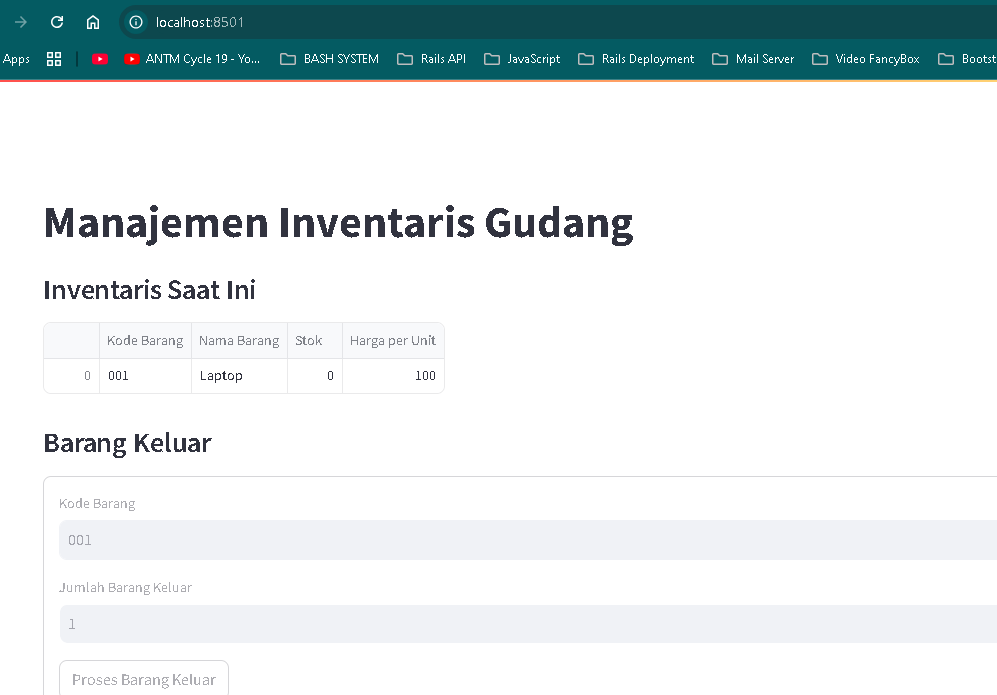
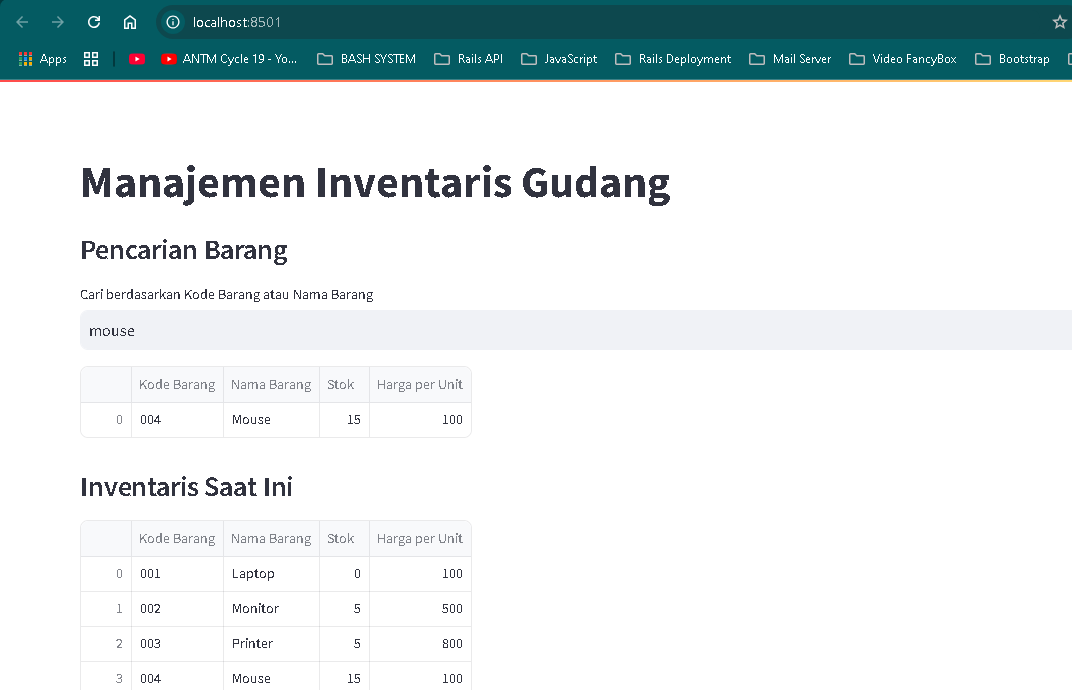
Tambah fitur search

diff --git a/app.py b/app.py
@@ -1,6 +1,7 @@
 import streamlit as st
 import pandas as pd
 from db_manager import add_item, get_all_items, decrease_item_stock, create_table
+from search import search_item
 
 # Setup halaman
 st.set_page_config(page_title="Aplikasi Manajemen Inventaris", layout="wide")
@@ -15,6 +16,22 @@ def load_data():
 
 # Halaman Utama
 st.title("Manajemen Inventaris Gudang")
+
+# Pencarian Barang
+st.subheader("Pencarian Barang")
+search_keyword = st.text_input("Cari berdasarkan Kode Barang atau Nama Barang")
+if search_keyword:
+    search_results = search_item(search_keyword)
+    if search_results:
+        df = pd.DataFrame(search_results, columns=["Kode Barang", "Nama Barang", "Stok", "Harga per Unit"])
+        st.dataframe(df)
+    else:
+        st.warning("Barang tidak ditemukan.")
+else:
+    # Tampilkan semua barang jika tidak ada pencarian
+    st.subheader("Inventaris Saat Ini")
+    df = load_data()
+    st.dataframe(df)
 
 # Tampilkan data inventaris
 st.subheader("Inventaris Saat Ini")

diff --git a/search.py b/search.py
@@ -1,0 +1,13 @@
+# search.py
+
+import sqlite3
+
+def search_item(keyword):
+    conn = sqlite3.connect('inventory.db')
+    cursor = conn.cursor()
+    cursor.execute('''SELECT kode_barang, nama_barang, stok, harga FROM inventaris
+                      WHERE kode_barang LIKE ? OR nama_barang LIKE ?''', 
+                   (f"%{keyword}%", f"%{keyword}%"))
+    rows = cursor.fetchall()
+    conn.close()
+    return rows

diff --git a/Readme.md b/Readme.md
@@ -1,6 +1,6 @@
-# Sistem Management Inventaris Gudang
+# Simple Management Inventaris Gudang
 
--- on going build --
+Version : 1.0
 
 ### Build with: 
 
@@ -9,7 +9,23 @@
 - Pandas
 - Db SQLite
 
----
+## Features
+- Add new items
+- Record item usage (pengurangan stok)
+- Search for items by code or name
+- Export inventory data to CSV
+
+## How to Run
+1. Clone the repository:
+   ```
+   git clone https://github.com/username/inventory-management.git
+   ```
+
+## Run the application
+
+```
+streamlit run app.py
+```
 
 ### Previews
 
